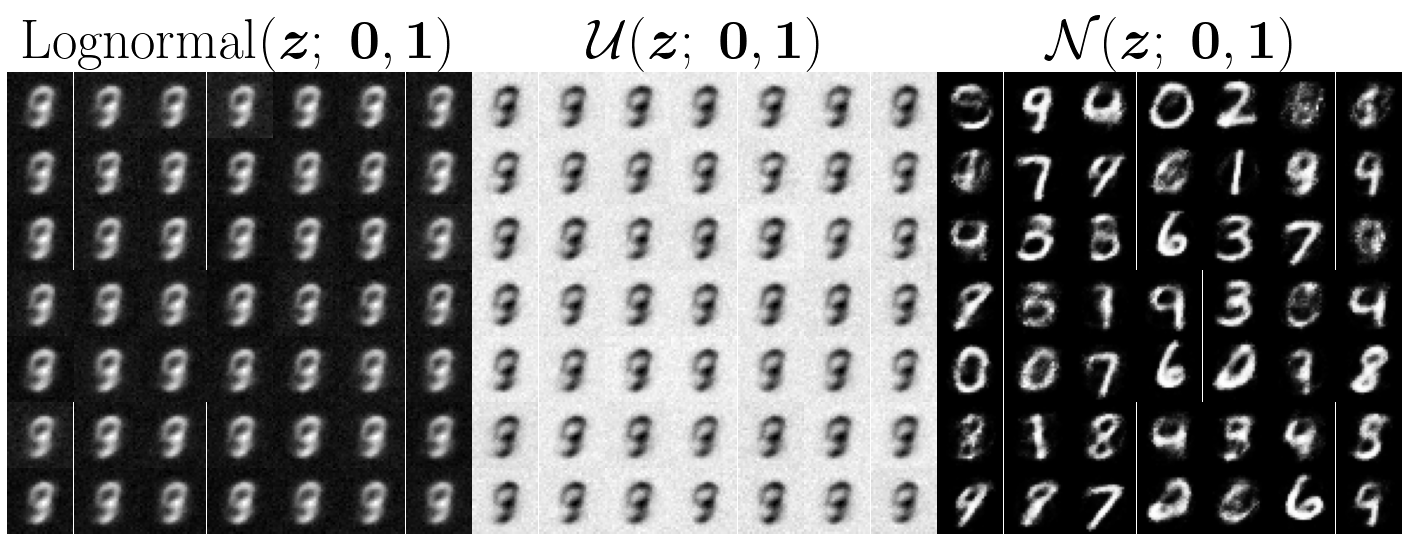
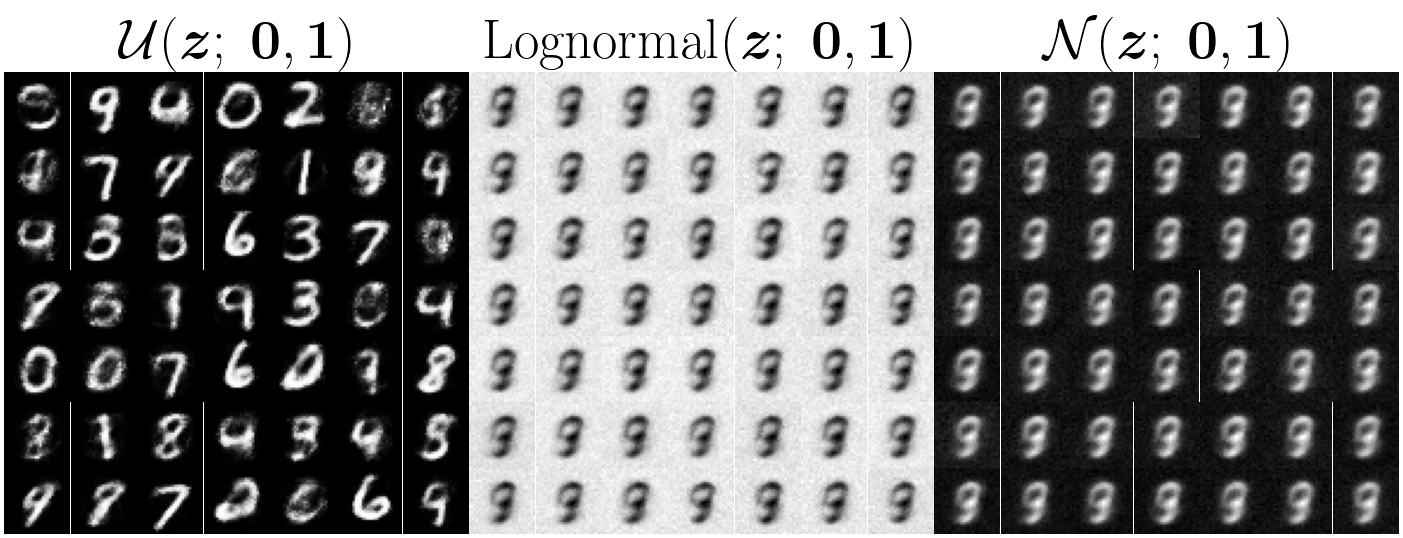
another fix

diff --git a/plotting/results/plot_priors.py b/plotting/results/plot_priors.py
@@ -12,13 +12,13 @@ plt.rcParams.update({
 
 # File paths to HDF5 files
 file_paths = [
-    'logs/gaussian_RBF/MNIST_1/generated_images.h5',
-    'logs/lognormal_RBF/MNIST_1/generated_images.h5',
     'logs/uniform_RBF/MNIST_1/generated_images.h5',
+    'logs/lognormal_RBF/MNIST_1/generated_images.h5',
+    'logs/gaussian_RBF/MNIST_1/generated_images.h5',
 ]
 
 # titles = ['Gaussian', 'Lognormal', 'Uniform']
-titles = [r"$\text{Lognormal}(\bm{z}; \; \bm{0}, \bm{1})$", r"$\mathcal{U}(\bm{z}; \; \bm{0}, \bm{1})$", r"$\mathcal{N}(\bm{z}; \; \bm{0}, \bm{1})$"]
+titles = [r"$\mathcal{U}(\bm{z}; \; \bm{0}, \bm{1})$", r"$\text{Lognormal}(\bm{z}; \; \bm{0}, \bm{1})$", r"$\mathcal{N}(\bm{z}; \; \bm{0}, \bm{1})$"]
 
 # Load generated images
 images = []
@@ -26,7 +26,7 @@ for file_path in file_paths:
     with h5py.File(file_path, 'r') as h5_file:
         images.append(h5_file['samples'][()])
 
-grid_size = (13, 13)  
+grid_size = (7, 7)  
 fig, axes = plt.subplots(grid_size[0], grid_size[1] * 3, figsize=(18, 6))
 
 for dataset_idx, image_set in enumerate(images):
@@ -46,8 +46,8 @@ for dataset_idx, image_set in enumerate(images):
             
         ax.axis('off')  
     
-    axes[0, dataset_idx * grid_size[1] + 6].set_title(titles[dataset_idx], fontsize=40, pad=10)
+    axes[0, dataset_idx * grid_size[1] + 3].set_title(titles[dataset_idx], fontsize=40, pad=10)
 
 plt.subplots_adjust(wspace=0, hspace=0)
-plt.savefig('figures/results/mnist_priors_rbf_13x13.png')
+plt.savefig('figures/results/mnist_priors_rbf_7x7.png')
 
